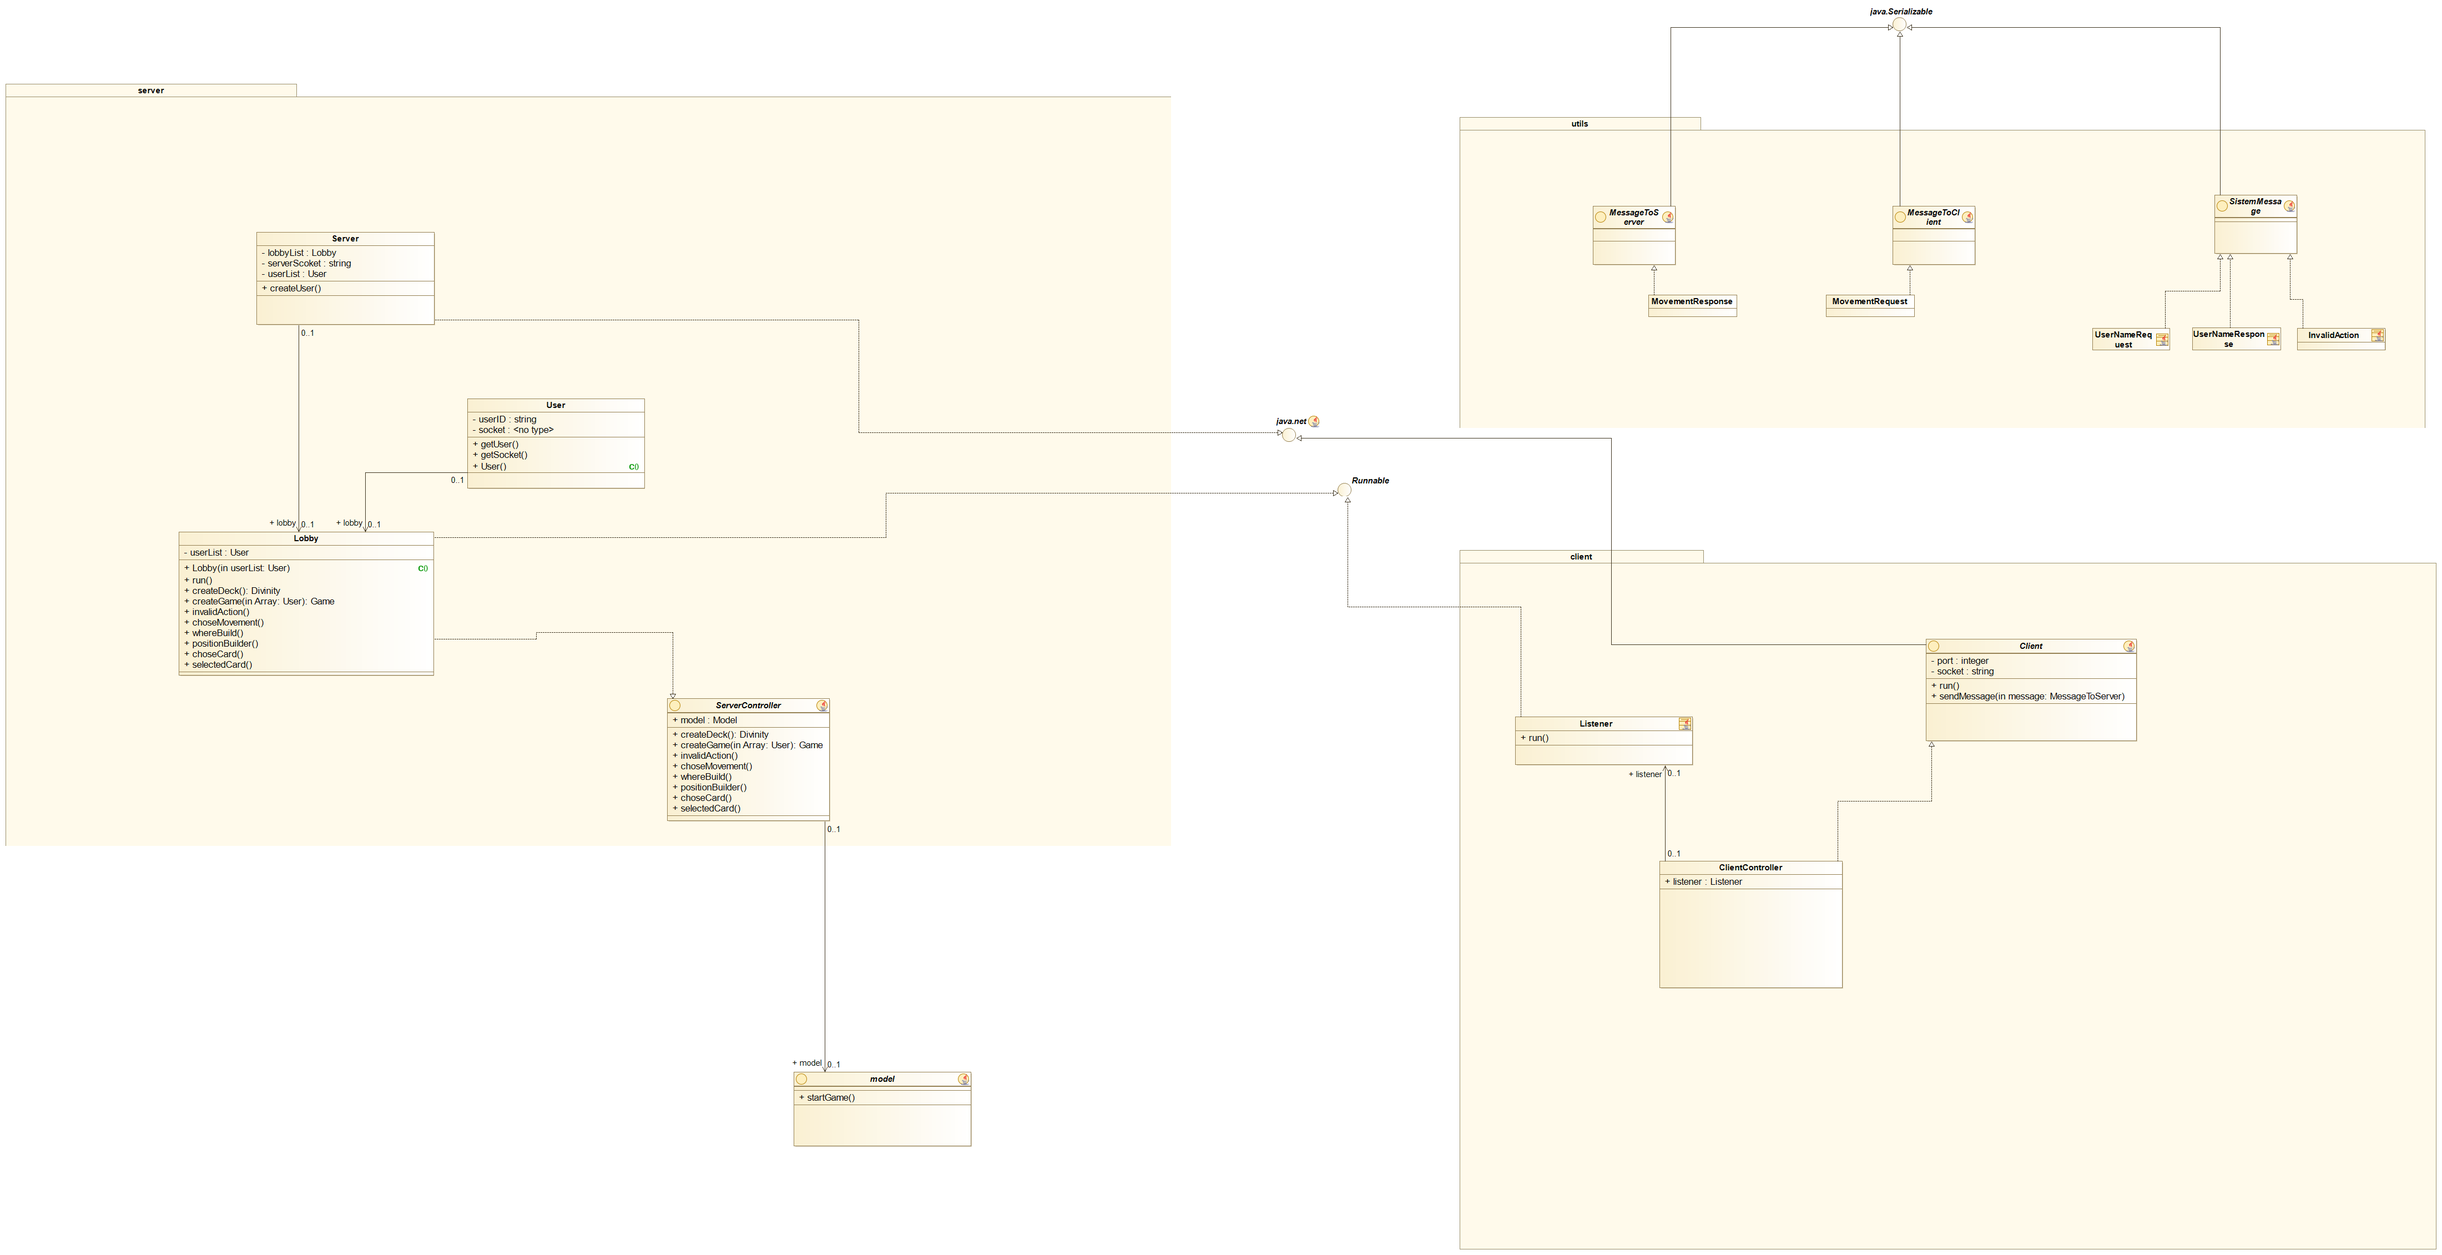
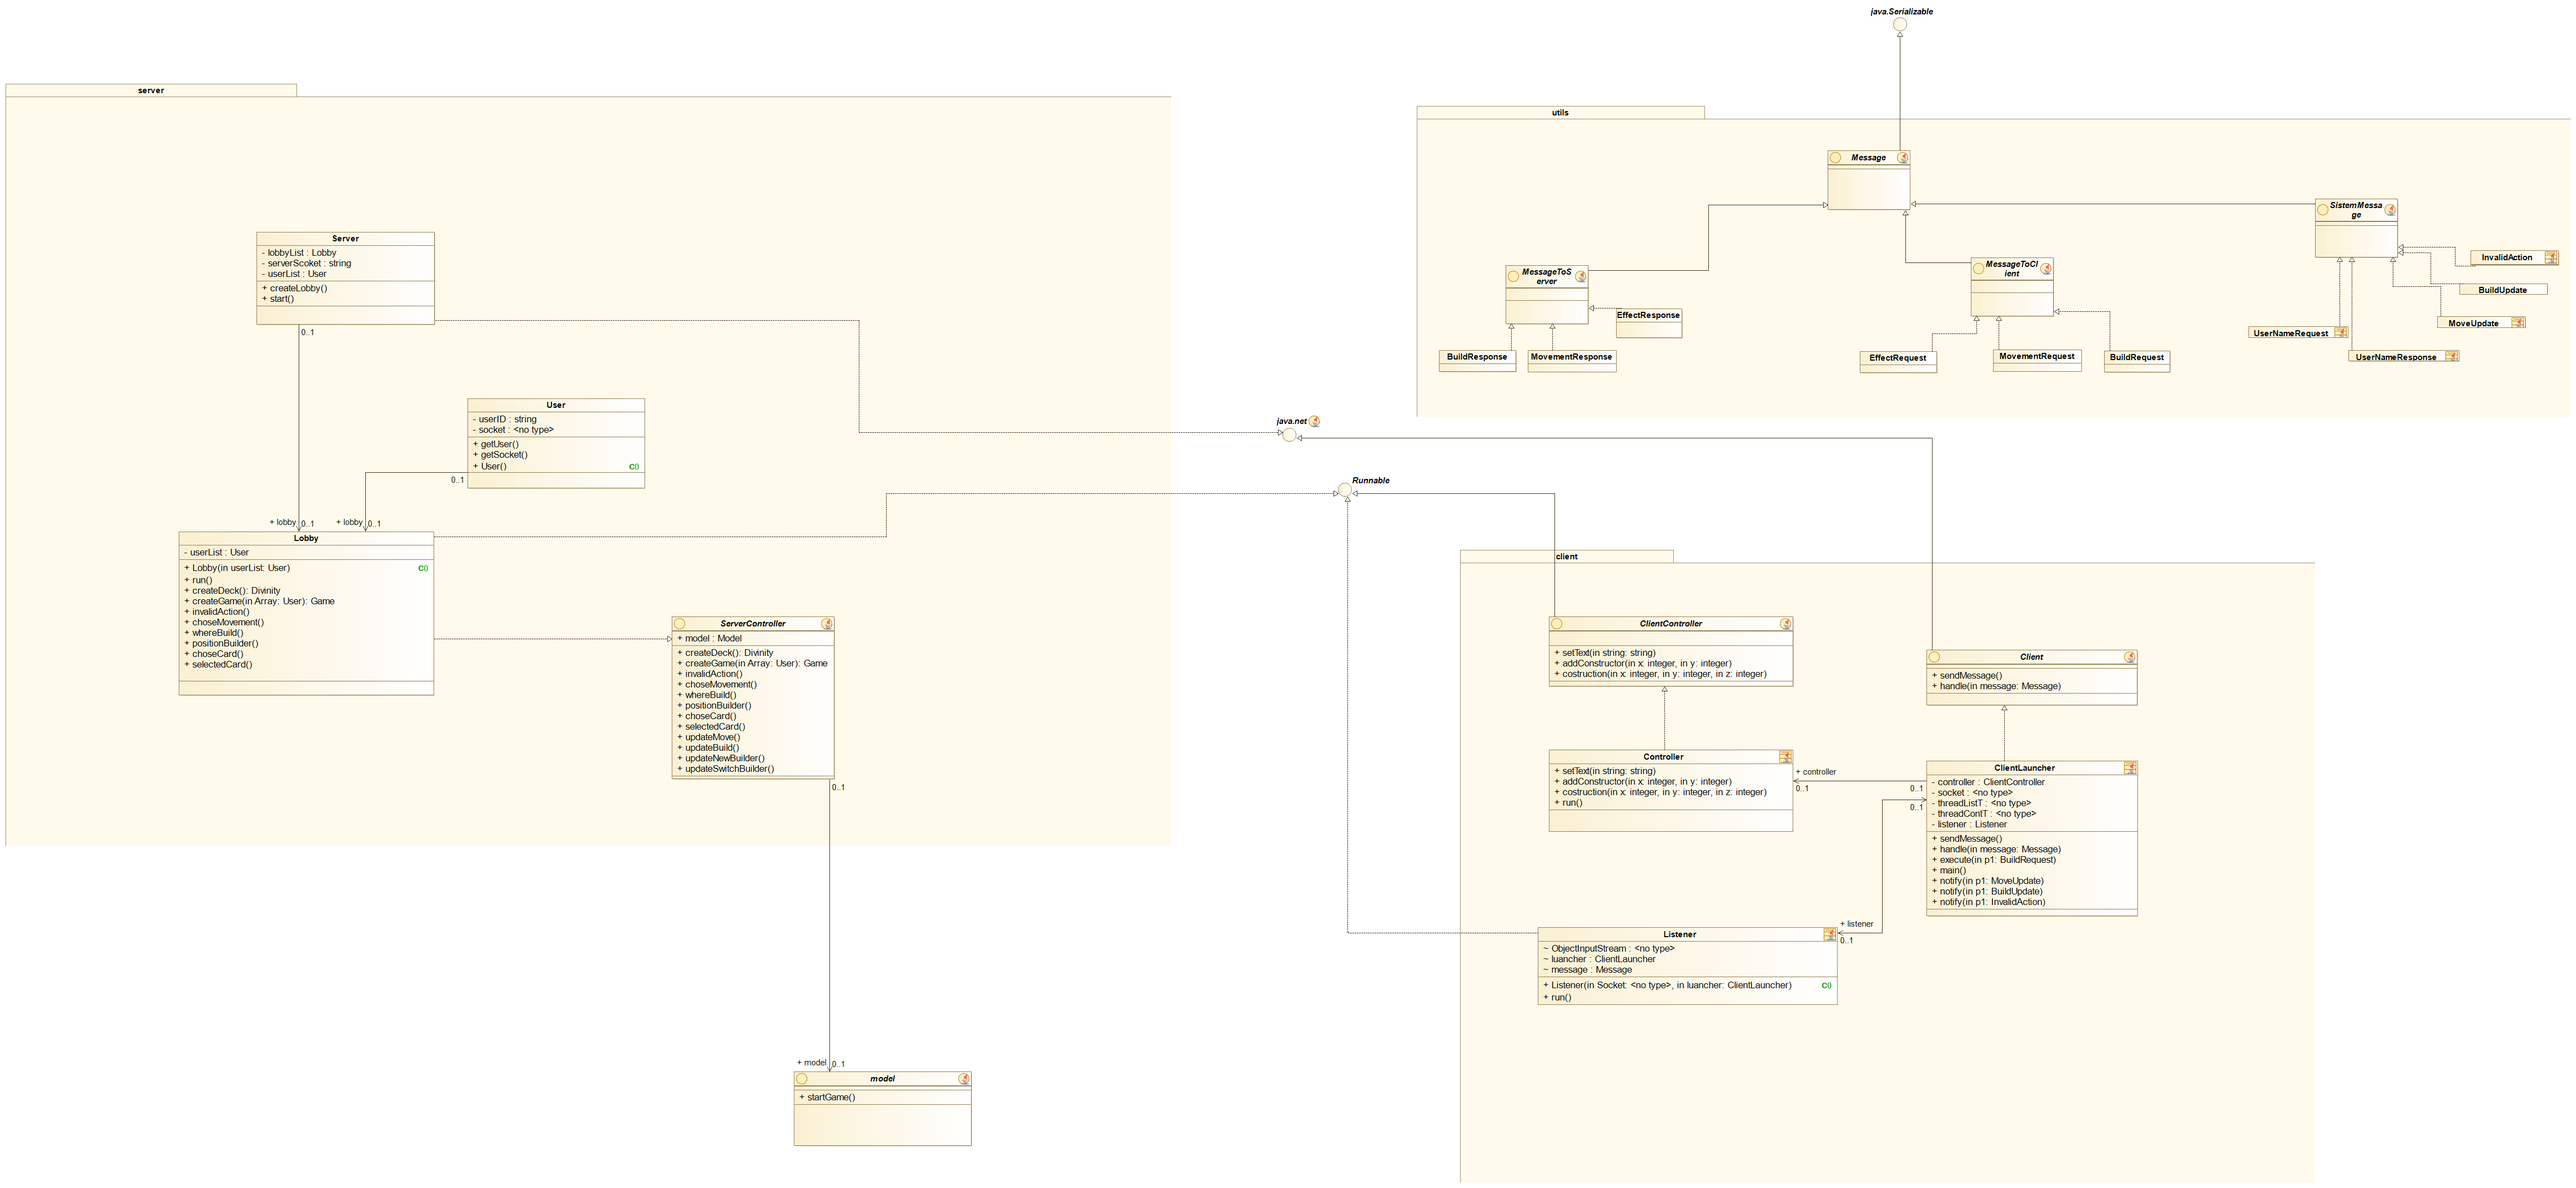
Uml

diff --git a/src/main/java/divinity/Athena.java b/src/main/java/divinity/Athena.java
@@ -59,11 +59,6 @@ public final class Athena extends Divinity {
 					return true;
 				} else {
 					if(isNextLevel(start, end)) { 
-						
-						// a different here where effect is active 
-						AthenaEffect active = new AthenaEffect();
-						game.getEffectList().add(active);
-						
 						BuilderAction nowmove = new BuilderAction(game);
 						if(game.getEffectList().isEmpty()==false) {
 							for (ActivePower x : game.getEffectList()) {
@@ -72,7 +67,12 @@ public final class Athena extends Divinity {
 									return false;
 								}
 							}
-						} 
+						}
+
+						// a different here where effect is active 
+						AthenaEffect active = new AthenaEffect();
+						game.getEffectList().add(active);
+						
 						game.getController().updateMovement(start.getPosition(), end.getPosition());
 						if(end.getHeight()==3) {
 							nowmove.movement(start, end);

diff --git a/src/main/java/divinity/Divinity.java b/src/main/java/divinity/Divinity.java
@@ -52,13 +52,13 @@ public class Divinity {
 				
 					BuilderAction nowbuild = new BuilderAction(game);
 					nowbuild.buildDome(whereBuild);
-					game.getController().updateBuild(builderCell.getPosition(), whereBuild.getPosition());
+					game.getController().updateBuild(whereBuild.getPosition(), whereBuild.getHeight());
 				}
 				
 				else {
 					BuilderAction nowbuild = new BuilderAction(game);
 					nowbuild.buildTower(whereBuild);
-					game.getController().updateBuild(builderCell.getPosition(), whereBuild.getPosition());
+					game.getController().updateBuild( whereBuild.getPosition(), whereBuild.getHeight());
 				}
 			}
 			else {

diff --git a/src/main/java/lobby/ServerController.java b/src/main/java/lobby/ServerController.java
@@ -14,13 +14,14 @@ public interface ServerController {
 	void invalidAction(String player, String message);
 	
 	void updateMovement(int[] position, int[] position2);	
-	void updateBuild(int[] position, int[] position2);
+	void updateBuild(int[] position, int height);
 	void updateNewBuilder(int[] position);
 	void updateSwitcBuilder(int[] position, int[] position2);
 	
 	ArrayList<Integer> selectCard(ArrayList<Integer> deck, User player);
 	int choseCard(ArrayList<Integer> deck, User player);
 	boolean askEffect(String user);
+	
 	
 	
 }

diff --git a/src/main/java/utils/BuildUpdate.java b/src/main/java/utils/BuildUpdate.java
@@ -2,17 +2,17 @@ package utils;
 
 import client.ClientLauncher;
 
-// int[] return x y z
-
 public class BuildUpdate implements MessageToClient {
 
 	private static final long serialVersionUID = 1L;
 	
 	private int[] building;
 	
-	public BuildUpdate(int[] whereBuild) {
-		building=whereBuild;
-		}
+	public BuildUpdate(int[] whereBuild, int heigth) {
+		building[0] = whereBuild[0]; //x
+		building[1] = whereBuild[1]; //y
+		building[2] = heigth;	//z= height of the new object
+	}
 		
 	
 	public int[] getPosition(){

diff --git a/src/main/java/divinity/Atlas.java b/src/main/java/divinity/Atlas.java
@@ -37,7 +37,7 @@ public final class Atlas extends Divinity {
 				if(isPossibleBuild( builderCell, whereBuild )) {
 					BuilderAction nowbuild = new BuilderAction(game);
 					nowbuild.buildDome(whereBuild);
-					game.getController().updateBuild(builderCell.getPosition(), whereBuild.getPosition());
+					game.getController().updateBuild(whereBuild.getPosition(), whereBuild.getHeight());
 					return true;
 				}else {
 					game.getController().invalidAction(game.getCurrentPlayer().getName(), "Invalid Build");

diff --git a/src/main/java/divinity/Hephaestus.java b/src/main/java/divinity/Hephaestus.java
@@ -1,9 +1,28 @@
 package divinity;
 
+import java.io.IOException;
+
+import divinity.Divinity.Build;
+import divinity.Divinity.Move;
 import game.Game;
 
 public final class Hephaestus extends Divinity {
-	final private  int cardID=1;
+	final private  int cardID = 6;
+	
 	public Hephaestus(Game game) {
 		super(game);
+	}
+	
+	public void round() {
+		
+		startRound();
+		
+		lose();
+
+		tryer(new Move());
+		
+		tryer(new Build());
+		
+		endRound();
+	}
 }

diff --git a/src/main/java/lobby/Lobby.java b/src/main/java/lobby/Lobby.java
@@ -240,7 +240,7 @@ class Lobby implements ServerController , Runnable {
 	}
 	
 	@Override
-	public void updateBuild(int[] position, int[] position2) {
+	public void updateBuild(int[] position, int position2) {
 		ObjectOutputStream output;
 		boolean state = false;
 		for(User x: userlist) {
